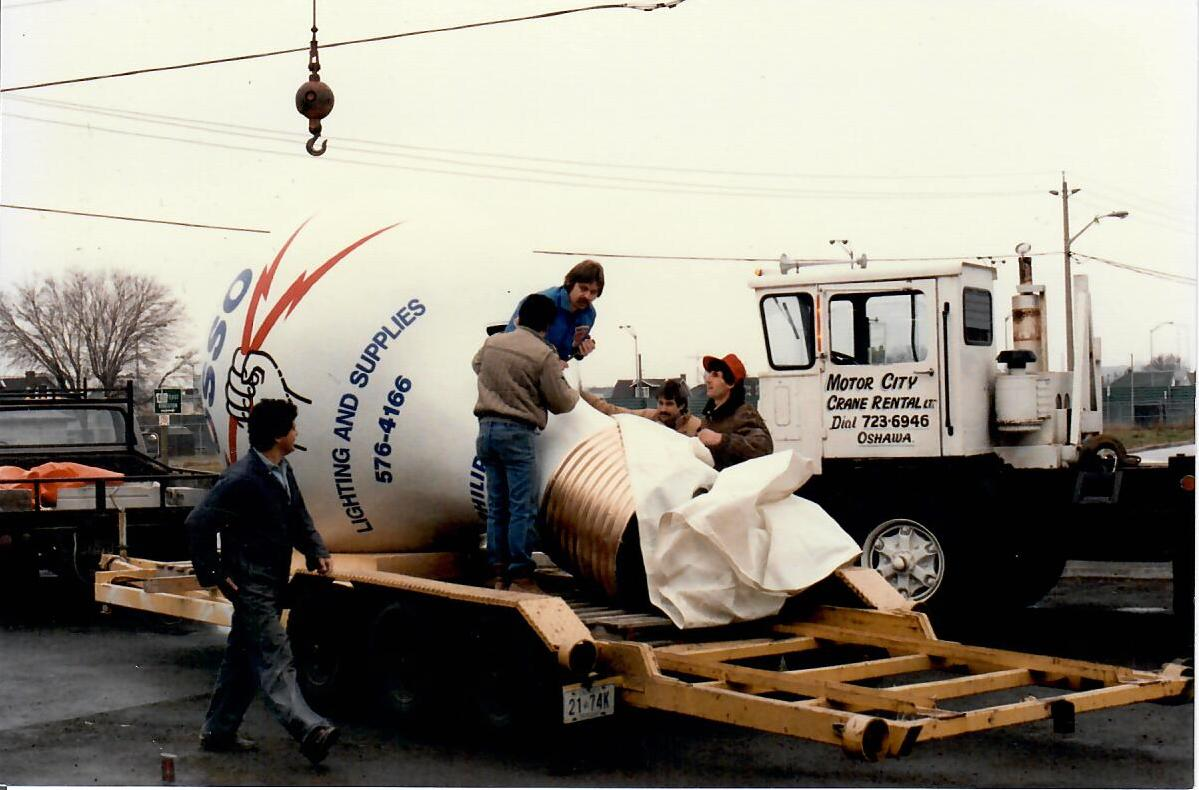
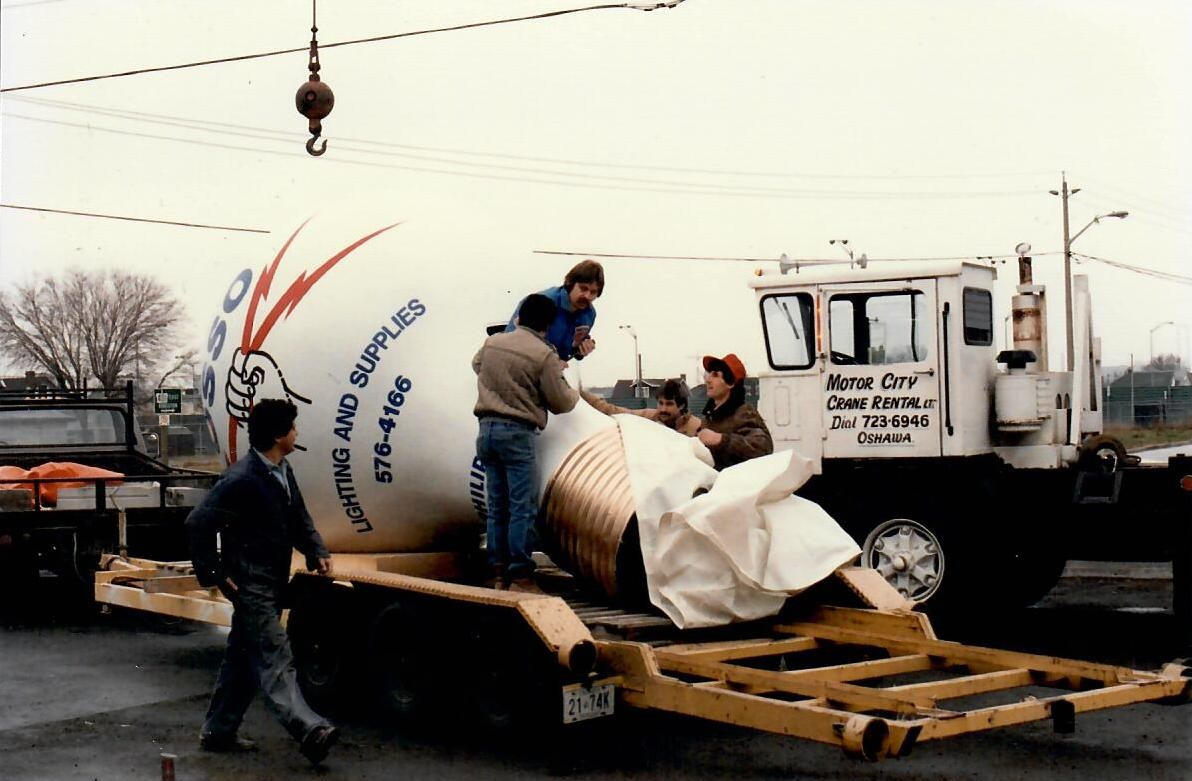
Crop damaged edges of photos, and renamed lift About/index.js one level

diff --git a/src/components/sections/About.jsx b/src/components/sections/About.jsx
@@ -1,8 +1,8 @@
 import React, { useState } from "react";
-import Carousel from "../../shared/Carousel";
-import { modifiedDebounce, elementIsHidden } from "../../../utils";
-import TouchEnabledContext from "../../../touchEnabledContext";
-import Marino from "../../../assets/images/historical/1.jpg";
+import Carousel from "../shared/Carousel";
+import { modifiedDebounce, elementIsHidden } from "../../utils";
+import TouchEnabledContext from "../../touchEnabledContext";
+import Marino from "../../assets/images/historical/1.jpg";
 
 const ABOUT_IMAGES_COUNT = 7;
 class AboutWeb extends React.Component {
@@ -26,7 +26,7 @@ class AboutWeb extends React.Component {
     new Promise((resolve) => {
       const fetchAboutImagePromises = [...Array(ABOUT_IMAGES_COUNT).keys()].map(
         (_, index) => {
-          return import(`../../../assets/images/historical/${index + 1}.jpg`);
+          return import(`../../assets/images/historical/${index + 1}.jpg`);
         }
       );
 
